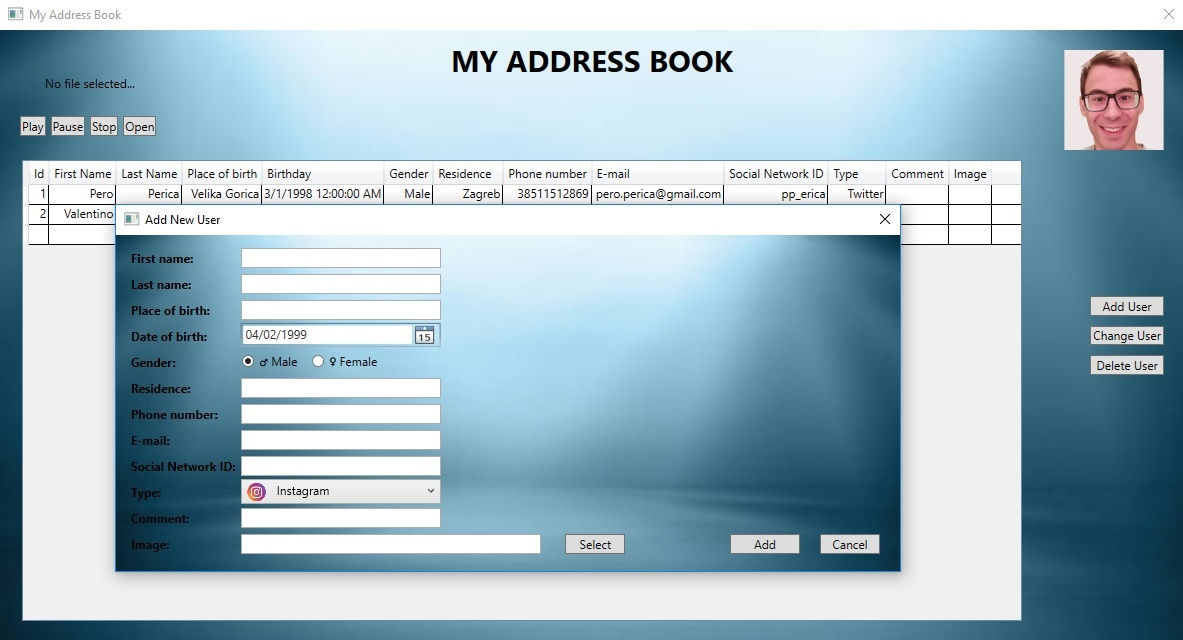
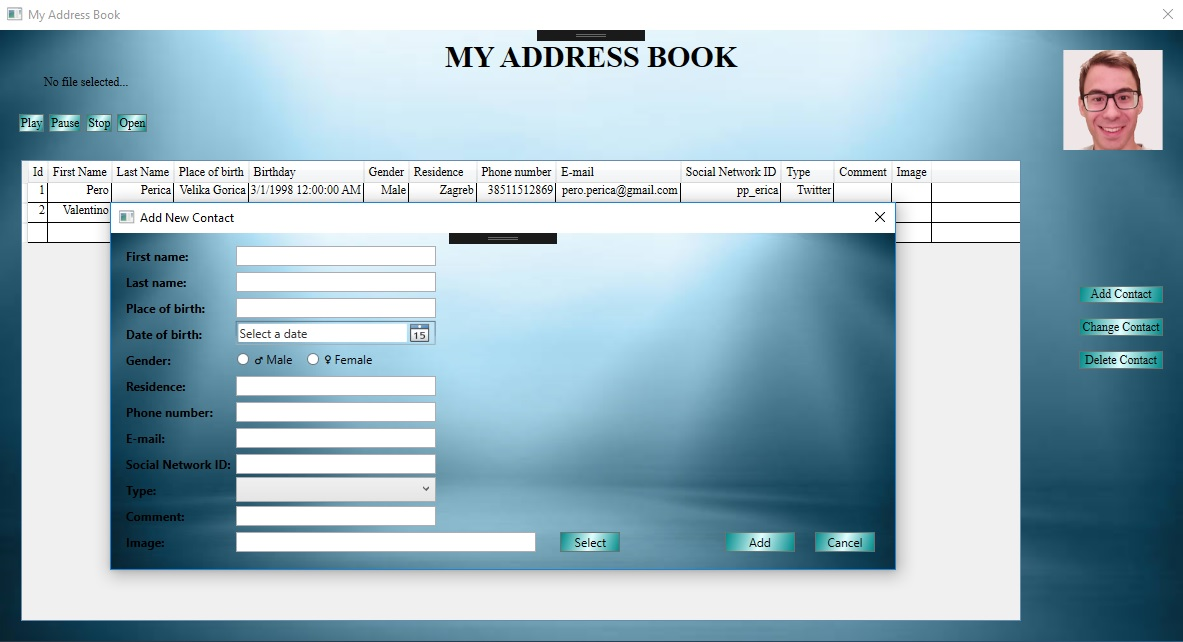
Testing .gitignore
Improved README.md file. Modified .gitignore file so it should not commit bin and obj files to Github. Cleaner definition of main class (now Contact), before misleading name *User*.

diff --git a/AddNewContact.xaml b/AddNewContact.xaml
@@ -1,0 +1,95 @@
+<Window x:Class="Address_book.AddNewContact"
+        xmlns="http://schemas.microsoft.com/winfx/2006/xaml/presentation"
+        xmlns:x="http://schemas.microsoft.com/winfx/2006/xaml"
+        xmlns:d="http://schemas.microsoft.com/expression/blend/2008"
+        xmlns:mc="http://schemas.openxmlformats.org/markup-compatibility/2006"
+        xmlns:local="clr-namespace:Address_book"
+        mc:Ignorable="d"
+    Title="Add New Contact" Height="375" Width="800" WindowState="Normal" ResizeMode="NoResize">
+    <Window.Background>
+        <ImageBrush ImageSource="Images/backphoto.jpg"></ImageBrush>
+    </Window.Background>
+    <Grid Margin="10" >
+        <Grid.ColumnDefinitions>
+            <ColumnDefinition Width="Auto"/>
+            <ColumnDefinition Width="*"/>
+            <ColumnDefinition Width="*"/>
+        </Grid.ColumnDefinitions>
+        <Grid.RowDefinitions>
+            <RowDefinition Height="Auto"/>
+            <RowDefinition Height="Auto"/>
+            <RowDefinition Height="Auto"/>
+            <RowDefinition Height="Auto"/>
+            <RowDefinition Height="Auto"/>
+            <RowDefinition Height="Auto"/>
+            <RowDefinition Height="Auto"/>
+            <RowDefinition Height="Auto"/>
+            <RowDefinition Height="Auto"/>
+            <RowDefinition Height="Auto"/>
+            <RowDefinition Height="Auto"/>
+            <RowDefinition Height="Auto"/>
+        </Grid.RowDefinitions>
+        <Label  FontWeight="Bold" Name="FirstName">First name:</Label>
+        <TextBox Grid.Column="1" Height="20" Width="200" HorizontalAlignment="Left"/>
+        <StackPanel Grid.Row="0" Grid.Column="2" HorizontalAlignment="Right" VerticalAlignment="Top" Grid.RowSpan="5">
+            <Image  Margin="0,10,10,0" Width="100" Height="100" Name="LoadPhoto" Stretch="Uniform"/>
+        </StackPanel>
+        <Label  FontWeight="Bold" Grid.Row="1">Last name:</Label>
+        <TextBox  FontWeight="Bold" Grid.Row="1" Grid.Column="1" Height="20" Width="200" HorizontalAlignment="Left"/>
+        <Label  FontWeight="Bold" Grid.Row="2">Place of birth:</Label>
+        <TextBox Grid.Row="2" Grid.Column="1" Height="20" Width="200" HorizontalAlignment="Left"/>
+        <Label  FontWeight="Bold" Grid.Row="3">Date of birth:</Label>
+        <DatePicker HorizontalAlignment="Left"
+                    VerticalAlignment="Top"
+                    Grid.Row="3" 
+                    Grid.Column="1" 
+                    Width="200"
+                    />
+        <Label  FontWeight="Bold" Grid.Row="4">Gender:</Label>
+        <RadioButton Grid.Column="1" Grid.Row="4" Margin="0,5,0,0">&#9794; Male</RadioButton>
+        <RadioButton Grid.Column="1" Grid.Row="4" Margin="70,5,0,0">&#9792; Female</RadioButton>
+        <Label  FontWeight="Bold" Grid.Row="5">Residence:</Label>
+        <TextBox Grid.Row="5" Grid.Column="1" Height="20" Width="200" HorizontalAlignment="Left" />
+        <Label  FontWeight="Bold" Grid.Row="6">Phone number:</Label>
+        <TextBox Grid.Row="6" Grid.Column="1" Grid.ColumnSpan="2" Height="20" Width="200" HorizontalAlignment="Left" />
+        <Label  FontWeight="Bold" Grid.Row="7">E-mail:</Label>
+        <TextBox Grid.Row="7" Grid.Column="1" Grid.ColumnSpan="2" Height="20" Width="200" HorizontalAlignment="Left"/>
+        <Label  FontWeight="Bold" Grid.Row="8">Social Network ID:</Label>
+        <TextBox Grid.Row="8" Grid.Column="1" Grid.ColumnSpan="2" Height="20" Width="200" HorizontalAlignment="Left"/>
+        <Label  FontWeight="Bold" Grid.Row="9" >Type:</Label>
+        <ComboBox Grid.Row="9" Grid.Column="1" Grid.ColumnSpan="2" Height="25" Width="200" HorizontalAlignment="Left">
+            <ComboBoxItem>
+                <StackPanel Orientation="Horizontal">
+                    <Image Source="/images/facebook.ico" Height="20" Width="20"/>
+                    <TextBlock Margin="10,0,0,0">Facebook</TextBlock>
+                </StackPanel>
+            </ComboBoxItem>
+            <ComboBoxItem>
+                <StackPanel Orientation="Horizontal">
+                    <Image Source="/images/twitter.ico" Height="20" Width="20"/>
+                    <TextBlock Margin="10,0,0,0">Twitter</TextBlock>
+                </StackPanel>
+            </ComboBoxItem>
+            <ComboBoxItem>
+                <StackPanel Orientation="Horizontal" >
+                    <Image Source="/images/instagram.ico" Height="20" Width="20"/>
+                    <TextBlock Margin="10,0,0,0">Instagram</TextBlock>
+                </StackPanel>
+            </ComboBoxItem>
+            <ComboBoxItem>
+                <StackPanel Orientation="Horizontal" >
+                    <Image Source="/images/linkedin.ico" Height="20" Width="20"/>
+                    <TextBlock Margin="10,0,0,0">LinkedIn</TextBlock>
+                </StackPanel>
+            </ComboBoxItem>
+        </ComboBox>
+        <Label  FontWeight="Bold" Grid.Row="10">Comment:</Label>
+        <TextBox Grid.Row="10" Grid.Column="1" Grid.ColumnSpan="2" Height="20" Width="200" HorizontalAlignment="Left"/>
+        <Label  FontWeight="Bold" Grid.Row="11">Image:</Label>
+        <TextBox Grid.Row="11" Grid.Column="1" IsReadOnly="True" Name="photofile" Height="20" Width="300" HorizontalAlignment="Left"></TextBox>
+        <Button Grid.Row="11" Grid.Column="2" Name="BtnAddNewImage" Click="BtnAddNewImage_Click" Height="20" Width="60" HorizontalAlignment="Left" Margin="0,0,0,0">_Select</Button>
+        <Button Grid.Row="11" Grid.Column="2" Name="BtnAdd" Click="BtnAdd_Click" Height="20" Width="70" HorizontalAlignment="Right" Margin="0,0,90,0">_Add</Button>
+        <Button Grid.Row="11" Grid.Column="2" Name="BtnCancel" Click="BtnCancel_Click" Height="20" Width="60" HorizontalAlignment="Right" Margin="0,0,10,0">_Cancel</Button>
+
+    </Grid>
+</Window>

diff --git a/MainWindow.xaml b/MainWindow.xaml
@@ -23,18 +23,18 @@
         <StackPanel HorizontalAlignment="Right" VerticalAlignment="Top">
             <Image Source="/images/myprofilepic.jpg" Width="100" Height="100" Margin="0,10,10,0"/>
         </StackPanel>
-        <StackPanel DockPanel.Dock="Right" VerticalAlignment="Center"  Margin="1080,0,10,0">
-            <Button Name="BtnAddUser" Click="BtnAddUser_Click">_Add User</Button>
-            <Button Name="BtnChangeUser" Click="BtnChangeUser_Click" Margin="0,10,0,0">_Change User</Button>
-            <Button Name="BtnDeleteUser" Click="BtnDeleteUser_Click" Margin="0,10,0,0">_Delete User</Button>
+        <StackPanel DockPanel.Dock="Right" VerticalAlignment="Center" Height="100" Margin="1070,0,10,0">
+            <Button Name="BtnAddContact" Click="BtnAddContact_Click">_Add Contact</Button>
+            <Button Name="BtnChangeContact" Click="BtnChangeContact_Click" Margin="0,15,0,0">_Change Contact</Button>
+            <Button Name="BtnDeleteContact" Click="BtnDeleteContact_Click" Margin="0,15,0,0">_Delete Contact</Button>
         </StackPanel>
-        <DataGrid ItemsSource="{Binding Users}"
-                  SelectedItem="{Binding Path=SelectedUsers, Mode=TwoWay}"
+        <DataGrid ItemsSource="{Binding contacts}"
+                  SelectedItem="{Binding Path=SelectedContacts, Mode=TwoWay}"
                   CanUserReorderColumns="False" CanUserResizeColumns="False"
                   CanUserResizeRows="False" CanUserSortColumns="True"
                   Margin="10,120,150,10" Width="1000"
                   GridLinesVisibility="Horizontal"
-                  Name="dbUsers"
+                  Name="dbContacts"
                   AutoGenerateColumns="False">
             <DataGrid.CellStyle>
                 <Style TargetType="DataGridCell">

diff --git a/MainWindow.xaml.cs b/MainWindow.xaml.cs
@@ -24,17 +24,17 @@ namespace Address_book
     public partial class MyAddressBook : Window
     {
 
-        List<User> Users = new List<User>();
+        List<Contact> Users = new List<Contact>();
         private MediaPlayer mediaPlayer = new MediaPlayer();
         public MyAddressBook()
         {
             InitializeComponent();
 
             // adding two example to see how the format fits.
-            Users.Add(new User() { Id = 1, FirstName = "Pero", LastName = "Perica", Residence = "Zagreb", BirthPlace = "Velika Gorica", Gender = "Male", PhoneNumber = 38511512869, Email = "pero.perica@gmail.com", SocialNetworkId = "pp_erica", Type = "Twitter", Birthday = new DateTime(1998, 3, 1)});
-            Users.Add(new User() { Id = 2, FirstName = "Valentino", LastName = "Skobljanec", Residence = "Kukuljanovo", BirthPlace = "Rijeka", Gender = "Male", PhoneNumber = 385953928381, Email = "vskobljanec@gmail.com", SocialNetworkId = "vale_n_tino92", Type = "Instagram", Birthday = new DateTime(1992, 9, 7) });
+            Users.Add(new Contact() { Id = 1, FirstName = "Pero", LastName = "Perica", Residence = "Zagreb", BirthPlace = "Velika Gorica", Gender = "Male", PhoneNumber = 38511512869, Email = "pero.perica@gmail.com", SocialNetworkId = "pp_erica", Type = "Twitter", Birthday = new DateTime(1998, 3, 1)});
+            Users.Add(new Contact() { Id = 2, FirstName = "Valentino", LastName = "Skobljanec", Residence = "Kukuljanovo", BirthPlace = "Rijeka", Gender = "Male", PhoneNumber = 385953928381, Email = "vskobljanec@gmail.com", SocialNetworkId = "vale_n_tino92", Type = "Instagram", Birthday = new DateTime(1992, 9, 7) });
         
-            dbUsers.ItemsSource = Users;
+            dbContacts.ItemsSource = Users;
 
             DispatcherTimer Timer = new DispatcherTimer();
             Timer.Interval = TimeSpan.FromSeconds(1);
@@ -92,29 +92,29 @@ namespace Address_book
                 : Application.Current.Windows.OfType<T>().Any(w => w.Name.Equals(name));
         }
 
-        private void BtnAddUser_Click(object sender, RoutedEventArgs e)
+        private void BtnAddContact_Click(object sender, RoutedEventArgs e)
         {
-            AddNewUser WindowNewUser = new AddNewUser();
-            if (!IsWindowOpen<Window>("WindowNewUser"))
+            AddNewContact WindowNewContact = new AddNewContact();
+            if (!IsWindowOpen<Window>("WindowNewContact"))
             {
-                WindowNewUser.Show();
+                WindowNewContact.Show();
             }
         }
 
         // Trying to find a proper method for selecting single row.
-        private void BtnChangeUser_Click(object sender, RoutedEventArgs e)
+        private void BtnChangeContact_Click(object sender, RoutedEventArgs e)
         {
 
         }
 
-        private void BtnDeleteUser_Click(object sender, RoutedEventArgs e)
+        private void BtnDeleteContact_Click(object sender, RoutedEventArgs e)
         {
 
         }
 
         // Dillema about defining class for data.
         // Haven't find the proper way. Yet!
-        public class User
+        public class Contact
         {
             public int Id { get; set; }
 

diff --git a/AddNewContact.xaml.cs b/AddNewContact.xaml.cs
@@ -18,10 +18,10 @@ namespace Address_book
     /// <summary>
     /// Interaction logic for Window1.xaml
     /// </summary>
-    public partial class AddNewUser : Window
+    public partial class AddNewContact : Window
     {
         // Window for new contact form
-        public AddNewUser()
+        public AddNewContact()
         {
            InitializeComponent();
         }
@@ -52,7 +52,7 @@ namespace Address_book
         // Main method of the app.
         private void BtnAdd_Click(object sender, RoutedEventArgs e)
         {
-            List<User> Users = new List<User>();
+            List<Contact> contacts = new List<Contact>();
             //this.Close();
         }
 
@@ -63,7 +63,7 @@ namespace Address_book
         }
 
         // Definition of contact class
-        public class User
+        public class Contact
         {
             public int Id { get; set; }
 

diff --git a/App.xaml.cs b/App.xaml.cs
@@ -16,6 +16,6 @@ namespace Address_book
     {
         // Implementing data structure for table.
         // In progress...
-        List<User> users = new List<User>();
+        List<Contact> contacts = new List<Contact>();
     }
 }

diff --git a/README.md b/README.md
@@ -6,26 +6,26 @@
 [![GitHub license](https://img.shields.io/github/license/pytagora/Address-book.svg)](https://github.com/pytagora/Address-book/blob/master/LICENSE.md)
 
 ## About
-The idea is to learn and get necessary programming experience through developing, building and deploying the stable release of the software. Software has two windows. The main window contains all the necessary data in the shape of a table. An additional window is opened by clicking the button **Add User** which purpose is to add new user to the table.
+The idea is to learn and get necessary programming experience through developing, building and deploying the stable release of the software. Software has two windows. The main window contains all the necessary data in the shape of a table. An additional window is opened by clicking the button **Add** which purpose is to add new contact to the table.
 
 ### In progress:
-- Comment section has its limitation. Should make flexible size for input.
-- Adding new contact is possible at all. Data solution will be build in the following week.
-- Table is currently not able to store big number of data/rows what is wished for every modern app.
-- In the MainWindow there is the default photo, but the user should be able to put his own.
+- Comment section has its limitations. Should make flexible size for input.
+- Adding new contact is not possible at all. Database solution will be build in the following week.
+- Table is currently not able to display big number of data/rows what is wished for in every modern app.
+- Search and Filter query.
+- In the MainWindow there is the default photo, but the user himself should be able to put his own.
 - There still isn't made a decision which data is mandatory and which is elective.
 
 ### Future ideas:
 - *Email* and *Social Network Id* as a hyperlink.
 - Information form for *user* himself.
-- *Residenc*e place connected to Google Maps.
-- Re-naming data class *User* to Contact since this current state is not convenient and is mostly misleading.
+- *Residence* place connected to Google Maps.
 
 ### Additional feature:
-- *Loading photo* for each new contact in the AddNewUser window.
+- *Loading photo* for each new contact in the AddNewContact window.
 - *Music Player* in the top left corner of MainWindow.
 
-Below you can see the current state of the software. Two contact which data you can see is loaded using Code behind method not UI solution.
+Below you can see the current state of the software. Two contacts which data you can see are loaded manually using Code behind method not UI solution.
 ![Current look of the application](https://raw.githubusercontent.com/pytagora/Address-Book/master/images/Demo_App.jpg)
 
 ## Release Notes
@@ -36,12 +36,12 @@ Below is a summary of major changes.
 
 ### 1.0.1
 - Initial build of the application.
-- MainWindow and AddNewUser included.
+- MainWindow and AddNewContact included.
 - Code behind buttons done only partially.
 - Background photo as template for both windows.
 - Multiple data type input possible.
-- Loading photo for new user.
-- Fixed size for both windows
+- Loading photo for new contact.
+- Fixed size for both windows.
 - Style for buttons, table and etc. (In progress...)
 
 # License
